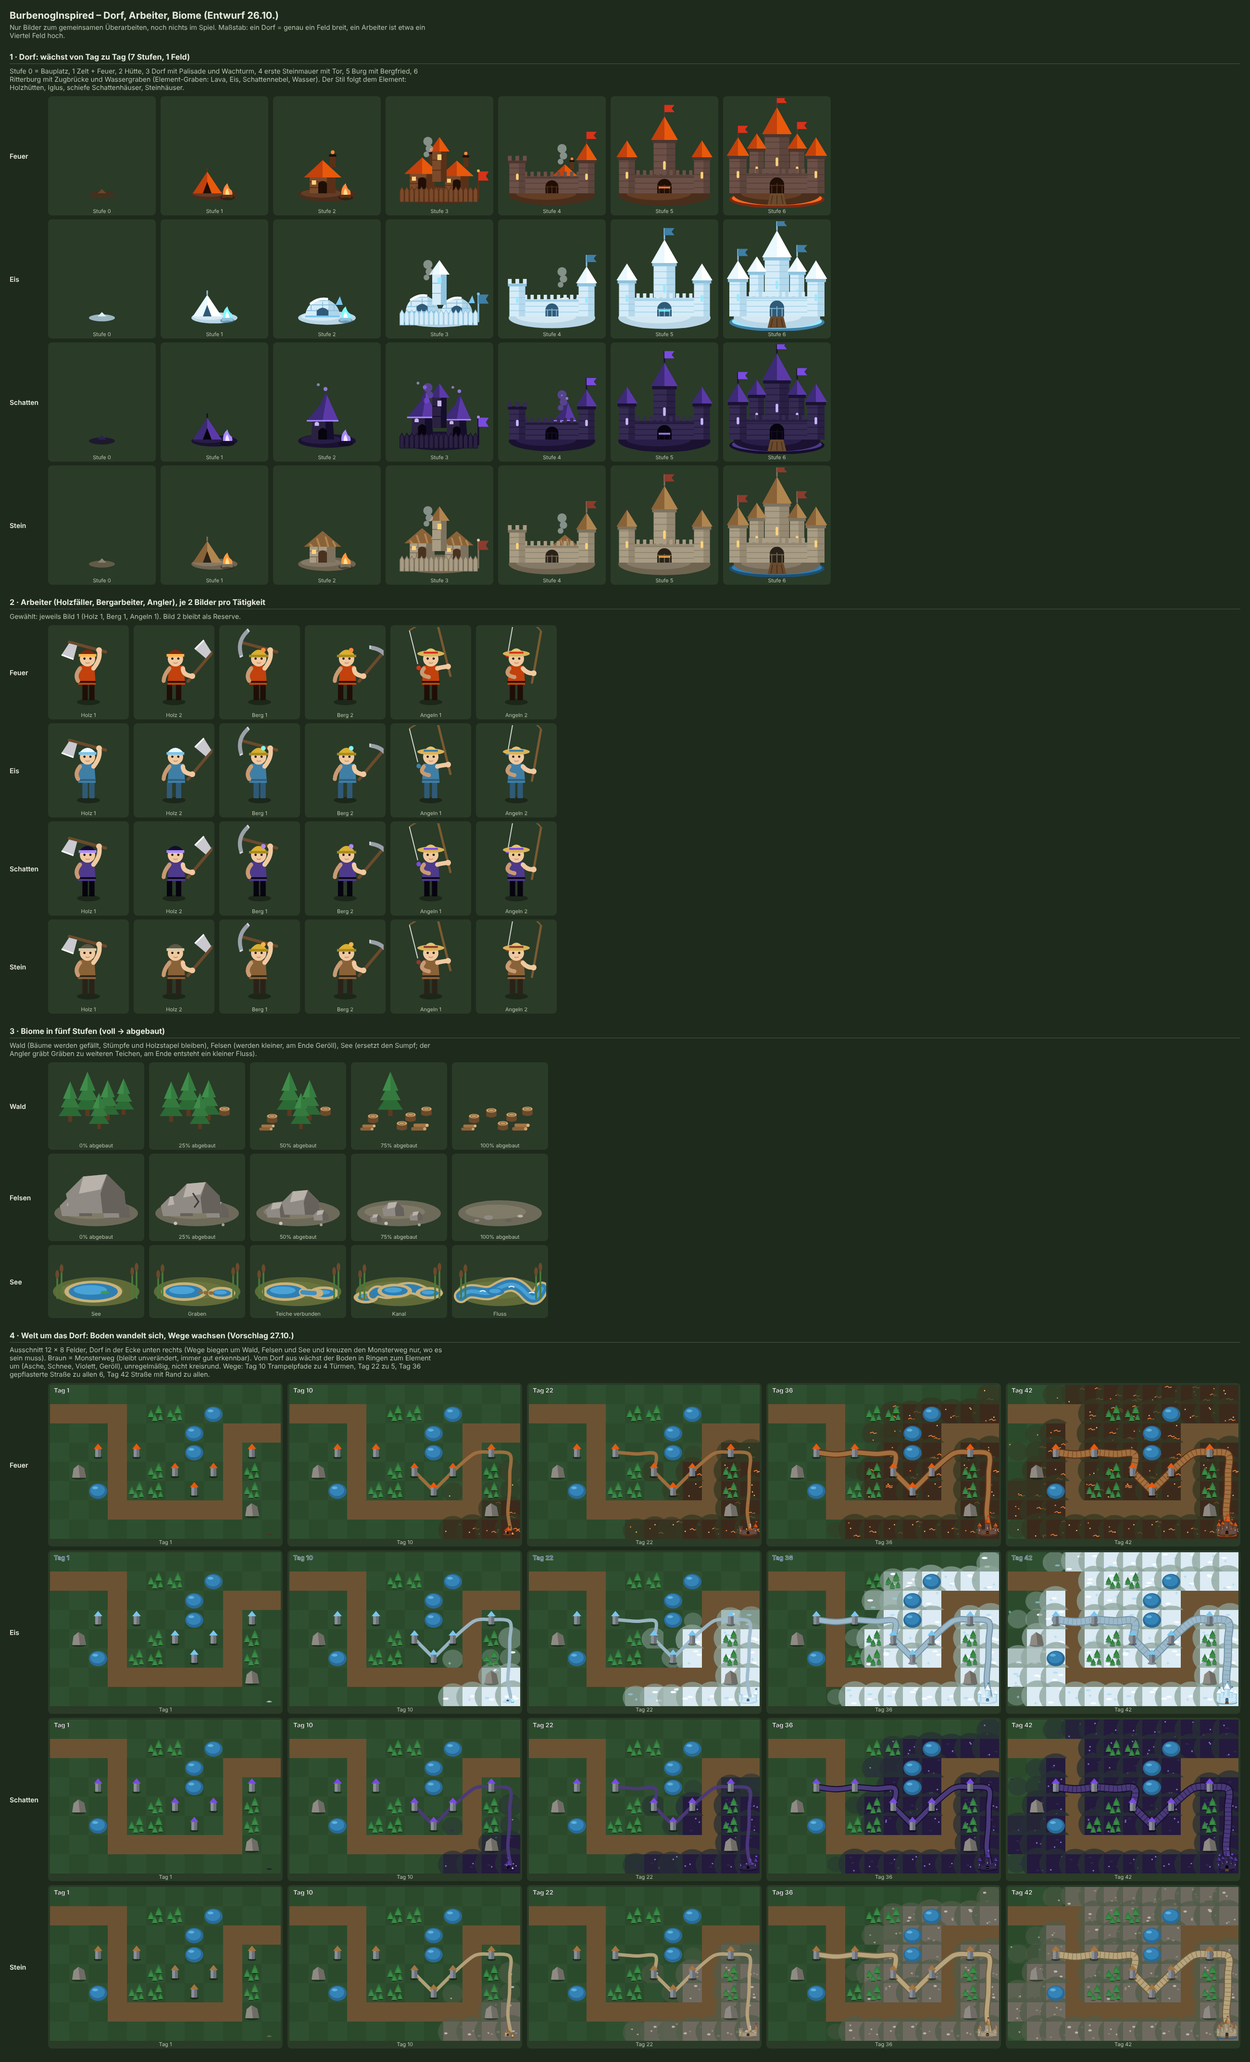
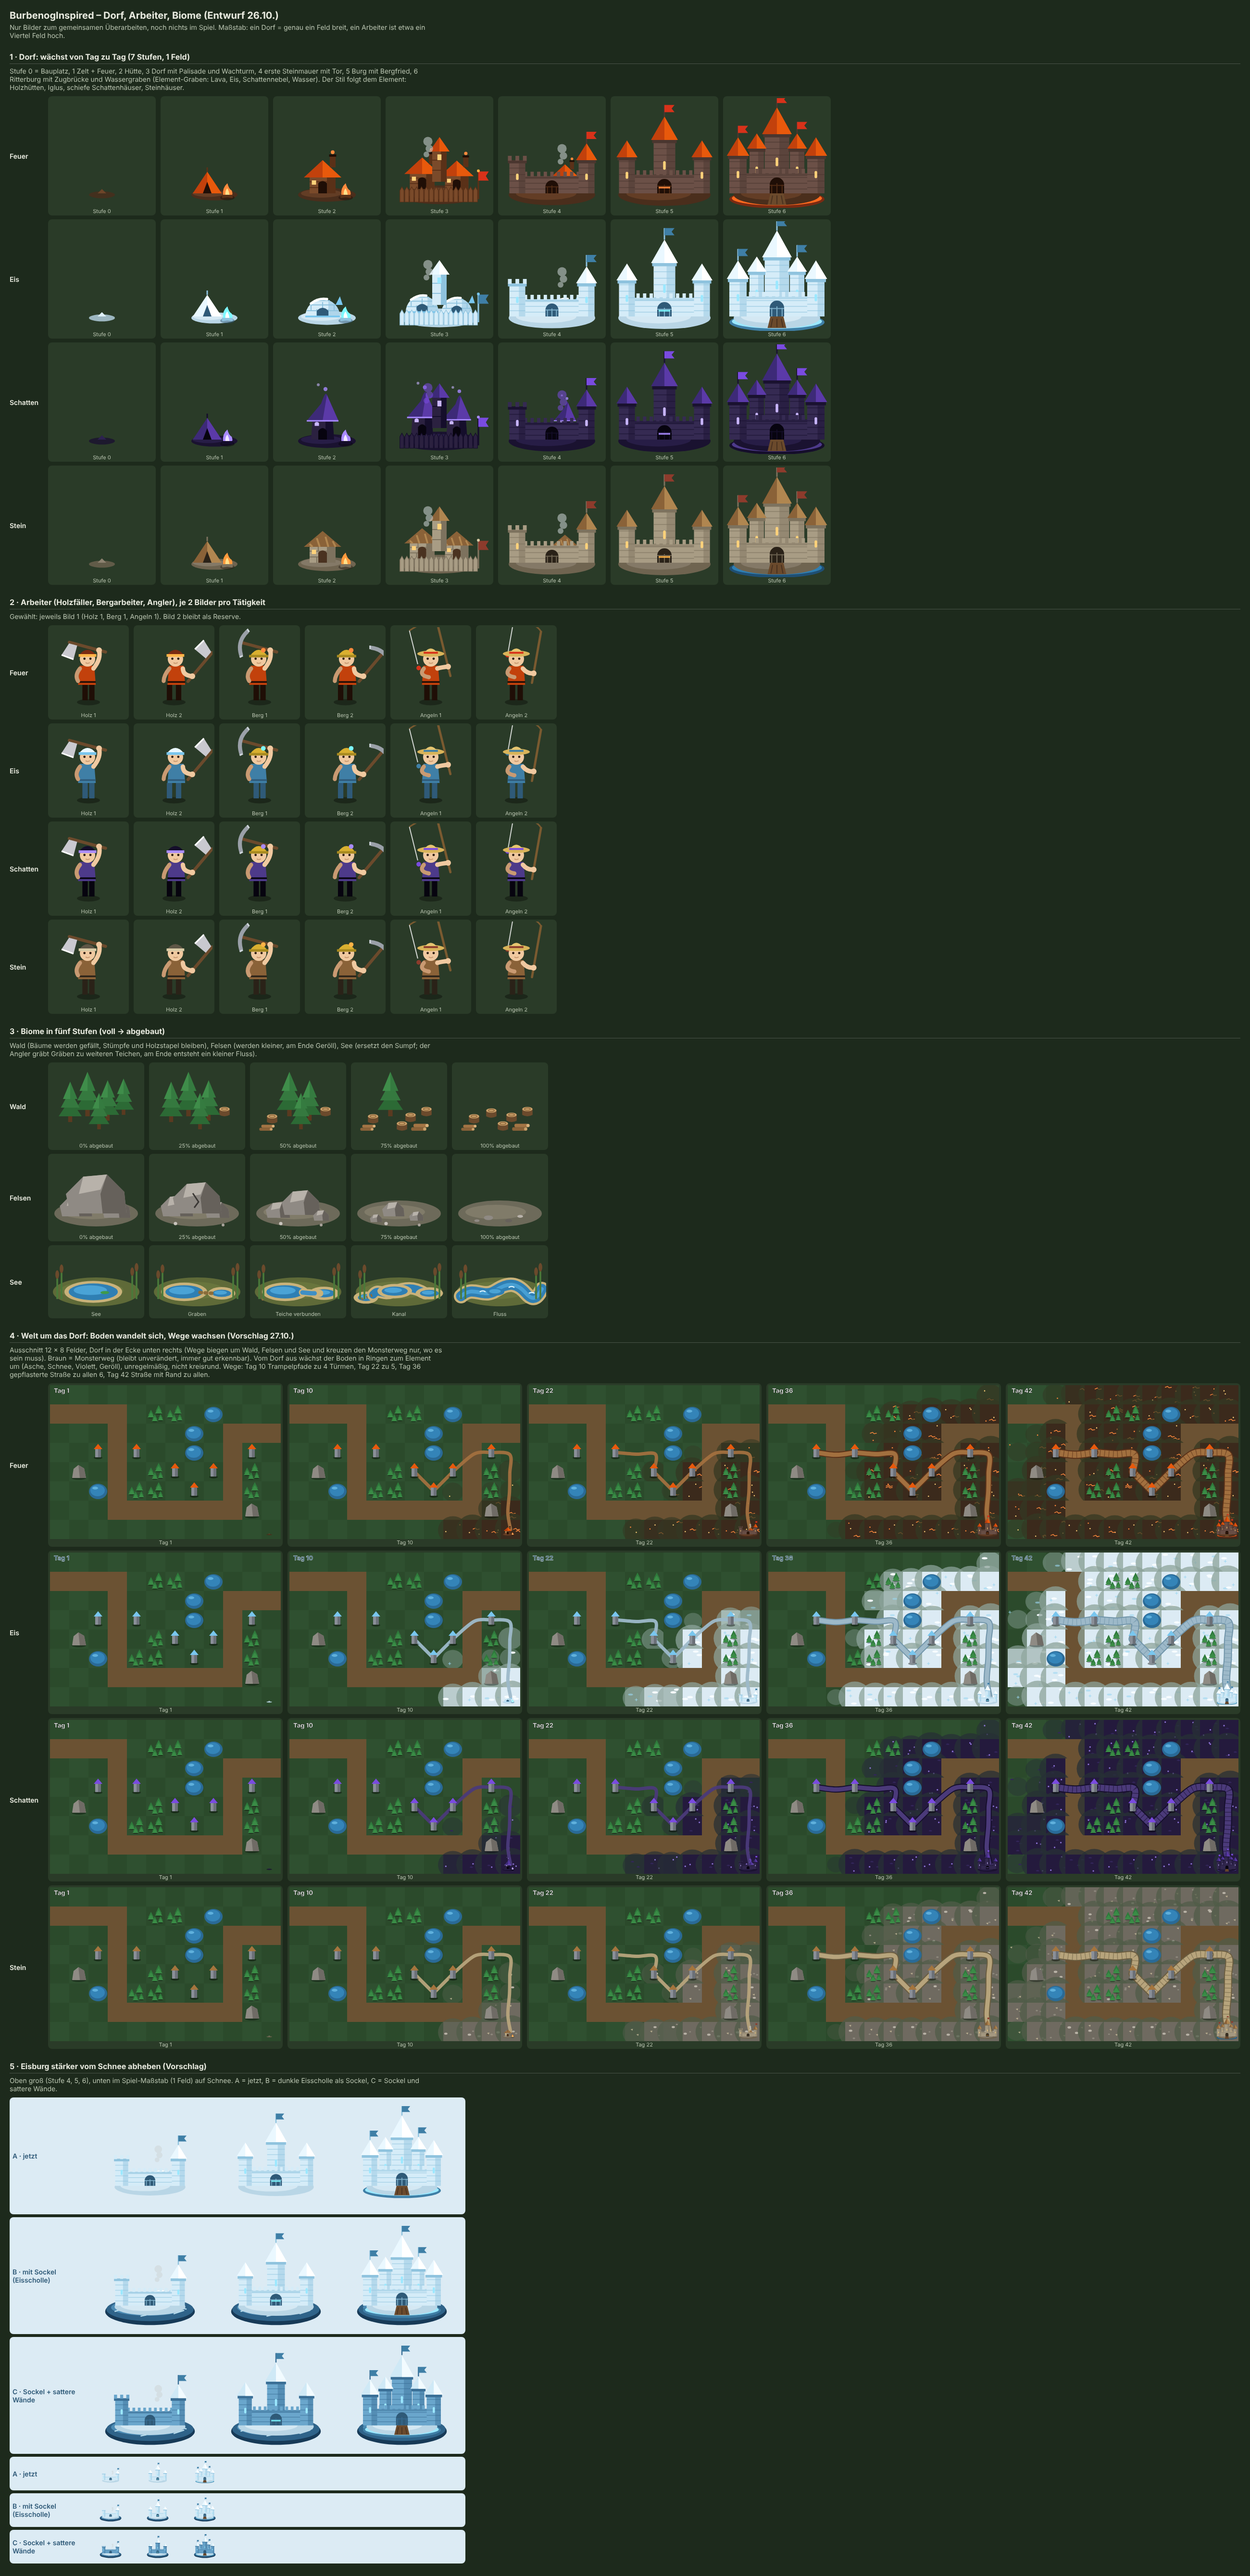
Entwurf: Eisburg-Kontrast (Sockel, sattere Wände)
Claude-Session: https://claude.ai/code/session_012Nsno37nEjc4wateER8C5H

diff --git a/tools/dorf/dorf.html b/tools/dorf/dorf.html
@@ -223,5 +223,16 @@ function welt(k,si){
 }
 h+=`<h2>4 · Welt um das Dorf: Boden wandelt sich, Wege wachsen (Vorschlag 27.10.)</h2><p class="n">Ausschnitt 12 × 8 Felder, Dorf in der Ecke unten rechts (Wege biegen um Wald, Felsen und See und kreuzen den Monsterweg nur, wo es sein muss). Braun = Monsterweg (bleibt unverändert, immer gut erkennbar). Vom Dorf aus wächst der Boden in Ringen zum Element um (Asche, Schnee, Violett, Geröll), unregelmäßig, nicht kreisrund. Wege: Tag 10 Trampelpfade zu 4 Türmen, Tag 22 zu 5, Tag 36 gepflasterte Straße zu allen 6, Tag 42 Straße mit Rand zu allen.</p>`;
 for(const k of KS){h+=`<div class="row"><div class="lab">${SN[k]}</div>`;for(let i=0;i<5;i++)h+=cell(`welt-${k}-${i}`,STG[i].t,welt(k,i));h+='</div>';}
+
+// ---------- Eisburg: Kontrast zum Schnee ----------
+{
+ const orig={...P.e}, VAR=[['A · jetzt',{},false],['B · mit Sockel (Eisscholle)',{},true],['C · Sockel + sattere Wände',{stone:'#6aa6cc',stoneD:'#3a6f96',wall:'#5f9cc4',wallD:'#386f97',roofL:'#f2fbff',roof:'#cfe9f6',acc:'#2f6389'},true]];
+ const socle=`<ellipse cx="0" cy="5" rx="38" ry="11.5" fill="#173a57"/><ellipse cx="0" cy="3.2" rx="37" ry="10" fill="#2f6389"/><ellipse cx="-2" cy="1.6" rx="31" ry="7" fill="#4d8cb5"/><path d="M-30 5l6 -2M20 7l9 -3M-8 9l5 -1M26 2l5 1" stroke="#bfe3f3" stroke-width=".9" fill="none"/>`;
+ let h2=`<h2>5 · Eisburg stärker vom Schnee abheben (Vorschlag)</h2><p class="n">Oben groß (Stufe 4, 5, 6), unten im Spiel-Maßstab (1 Feld) auf Schnee. A = jetzt, B = dunkle Eisscholle als Sockel, C = Sockel und sattere Wände.</p><div id="kontrast" style="display:inline-block">`;
+ for(let big=1;big>=0;big--){ for(const [t,pal,sk] of VAR){ Object.assign(P.e,orig,pal); h2+=`<div class="row" style="background:#dcebf4;border-radius:8px;padding:6px;margin-bottom:6px;align-items:flex-end"><div class="lab" style="color:#2f5a78;width:150px">${t}</div>`;
+   for(const st of [4,5,6]){ let v=village('e',st).replace('viewBox="-36 -66 72 76"','viewBox="-44 -66 88 80"'); if(sk) v=v.replace(/(<svg[^>]*>)/,'$1'+socle); if(!big) v=v.replace(/width="216" height="228"/,'width="52" height="55"'); h2+=`<div style="padding:0 18px">${v}</div>`; }
+   h2+='</div>'; } Object.assign(P.e,orig); }
+ h2+='</div>'; h+=h2;
+}
 out.innerHTML=h;
 </script>

diff --git a/tools/dorf/export.js b/tools/dorf/export.js
@@ -6,6 +6,7 @@ const { chromium } = require('playwright'); const fs = require('fs'), path = req
   p.on('pageerror', e => console.log('PAGEERROR', e.message));
   await p.goto('file://' + path.join(__dirname, 'dorf.html'));
   await p.screenshot({ path: path.join(outDir, '_uebersicht.png'), fullPage: true });
+  const kk = await p.$('#kontrast'); if (kk) await kk.screenshot({ path: path.join(outDir, '_eisburg-kontrast.png') });
   await p.addStyleTag({ content: 'body,.sp{background:transparent!important}' });   // Einzelbilder ohne Hintergrund
   for (const el of await p.$$('.sp')) { const n = await el.getAttribute('data-name'); const sv = await el.$('svg'); await sv.screenshot({ path: path.join(outDir, n + '.png'), omitBackground: true }); }
   await b.close();
